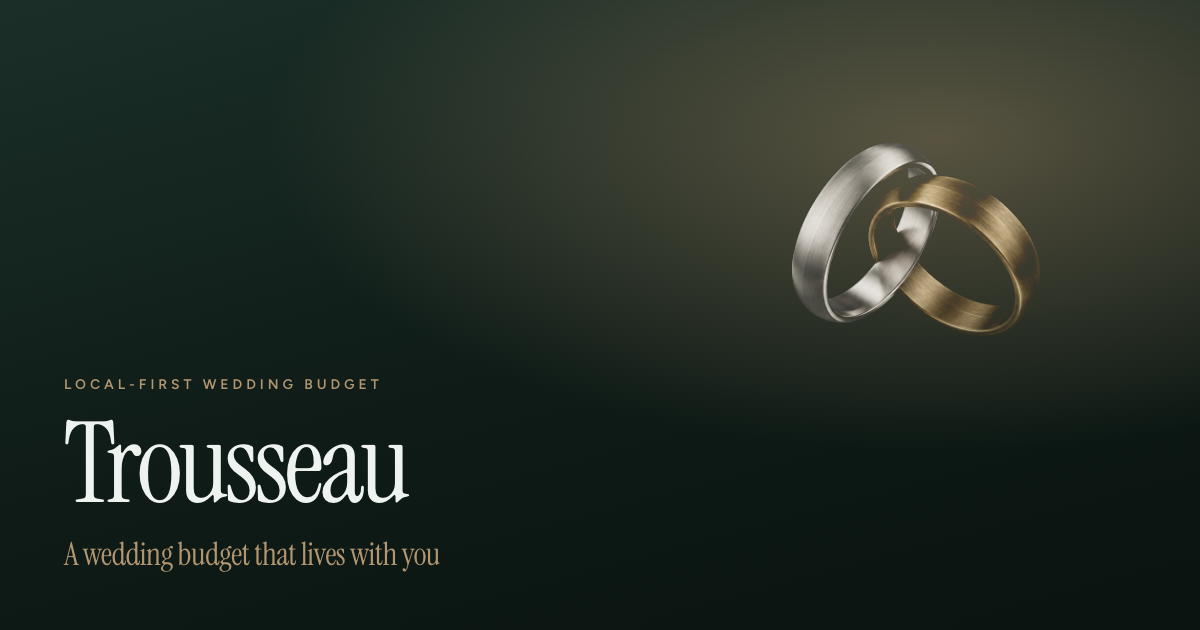
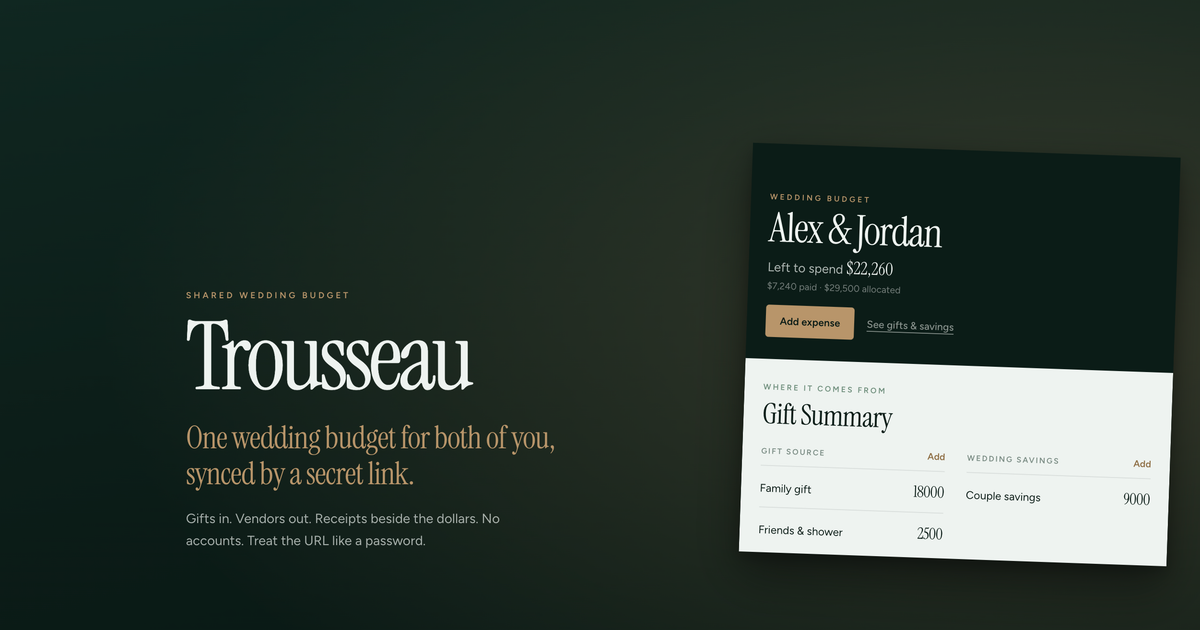
docs: refresh OG image and demo wording
Replace the rings OG with a hero capture (no CTAs) and note that Try demo loads a fresh randomized budget.

diff --git a/index.html b/index.html
@@ -23,7 +23,7 @@
     <meta property="og:image:type" content="image/png" />
     <meta property="og:image:width" content="1200" />
     <meta property="og:image:height" content="630" />
-    <meta property="og:image:alt" content="Trousseau: interlocking platinum and brass bands on a deep grove green field" />
+    <meta property="og:image:alt" content="Trousseau: shared wedding budget hero with product preview on a deep grove green field" />
     <meta name="twitter:card" content="summary_large_image" />
     <meta name="twitter:title" content="Trousseau · Wedding budget, shared with you" />
     <meta

diff --git a/README.md b/README.md
@@ -12,7 +12,7 @@
 [![Dev env: Flox](https://img.shields.io/badge/dev%20env-flox-7c3aed.svg)](https://flox.dev)
 
 <p align="center">
-  <img src="public/og.png" alt="Trousseau: a wedding budget that lives with you" width="800" />
+  <img src="public/og.png" alt="Trousseau: one wedding budget for both of you, synced by a secret link" width="800" />
 </p>
 
 Wedding budget tracker with **no accounts**: a secret share URL is the password. Opening `/app` resumes or creates a synced budget at `/b/…`; anyone with that link can edit. Export a zip anytime for an offline archive. Each browser keeps an IndexedDB cache for a fast UI; Postgres + Blob hold the live data.
@@ -32,7 +32,7 @@ Requires [Docker](https://docs.docker.com/get-docker/) for local Postgres. Full 
 | `/` | Marketing site |
 | `/app` | Resume or create a share link → `/b/…` |
 | `/app?new=1` | Blank budget (new share link) |
-| `/app?demo=1` | Filled generic demo (new share link) |
+| `/app?demo=1` | Fresh randomized demo budget (new share link) |
 | `/?import=1` | Import a zip over the home page (creates a new share link) |
 | `/b/<token>` | Shared budget: treat the URL like a password |
 

diff --git a/docs/getting-started.md b/docs/getting-started.md
@@ -41,7 +41,7 @@ Use `localhost` (not `127.0.0.1`) in `POSTGRES_URL`. Local Docker uses the `pg` 
 | `/` | Marketing site |
 | `/app` | Resume remembered share or create one → soft-navigate to `/b/…` |
 | `/app?new=1` | Start a blank budget (new share link) |
-| `/app?demo=1` | Load the filled generic demo (new share link) |
+| `/app?demo=1` | Load a fresh randomized demo budget (new share link) |
 | `/app?import=1` | Redirects to `/?import=1` |
 | `/?import=1` | Open the import dialog on the home page (import creates a share link) |
 | `/b/<token>` | Shared budget (secret link; anyone with the URL can edit) |

diff --git a/docs/how-it-works.md b/docs/how-it-works.md
@@ -32,7 +32,7 @@ flowchart LR
 ## Blank, demo, and import
 
 - `/app?new=1` starts a blank budget and opens a new share link.
-- `/app?demo=1` loads the filled generic demo and opens a new share link.
+- `/app?demo=1` loads a fresh randomized demo budget and opens a new share link.
 - `/?import=1` (or **Import**) opens the import dialog over the home page; restoring a Trousseau `.zip` creates a share link.
 
 ## Share link
